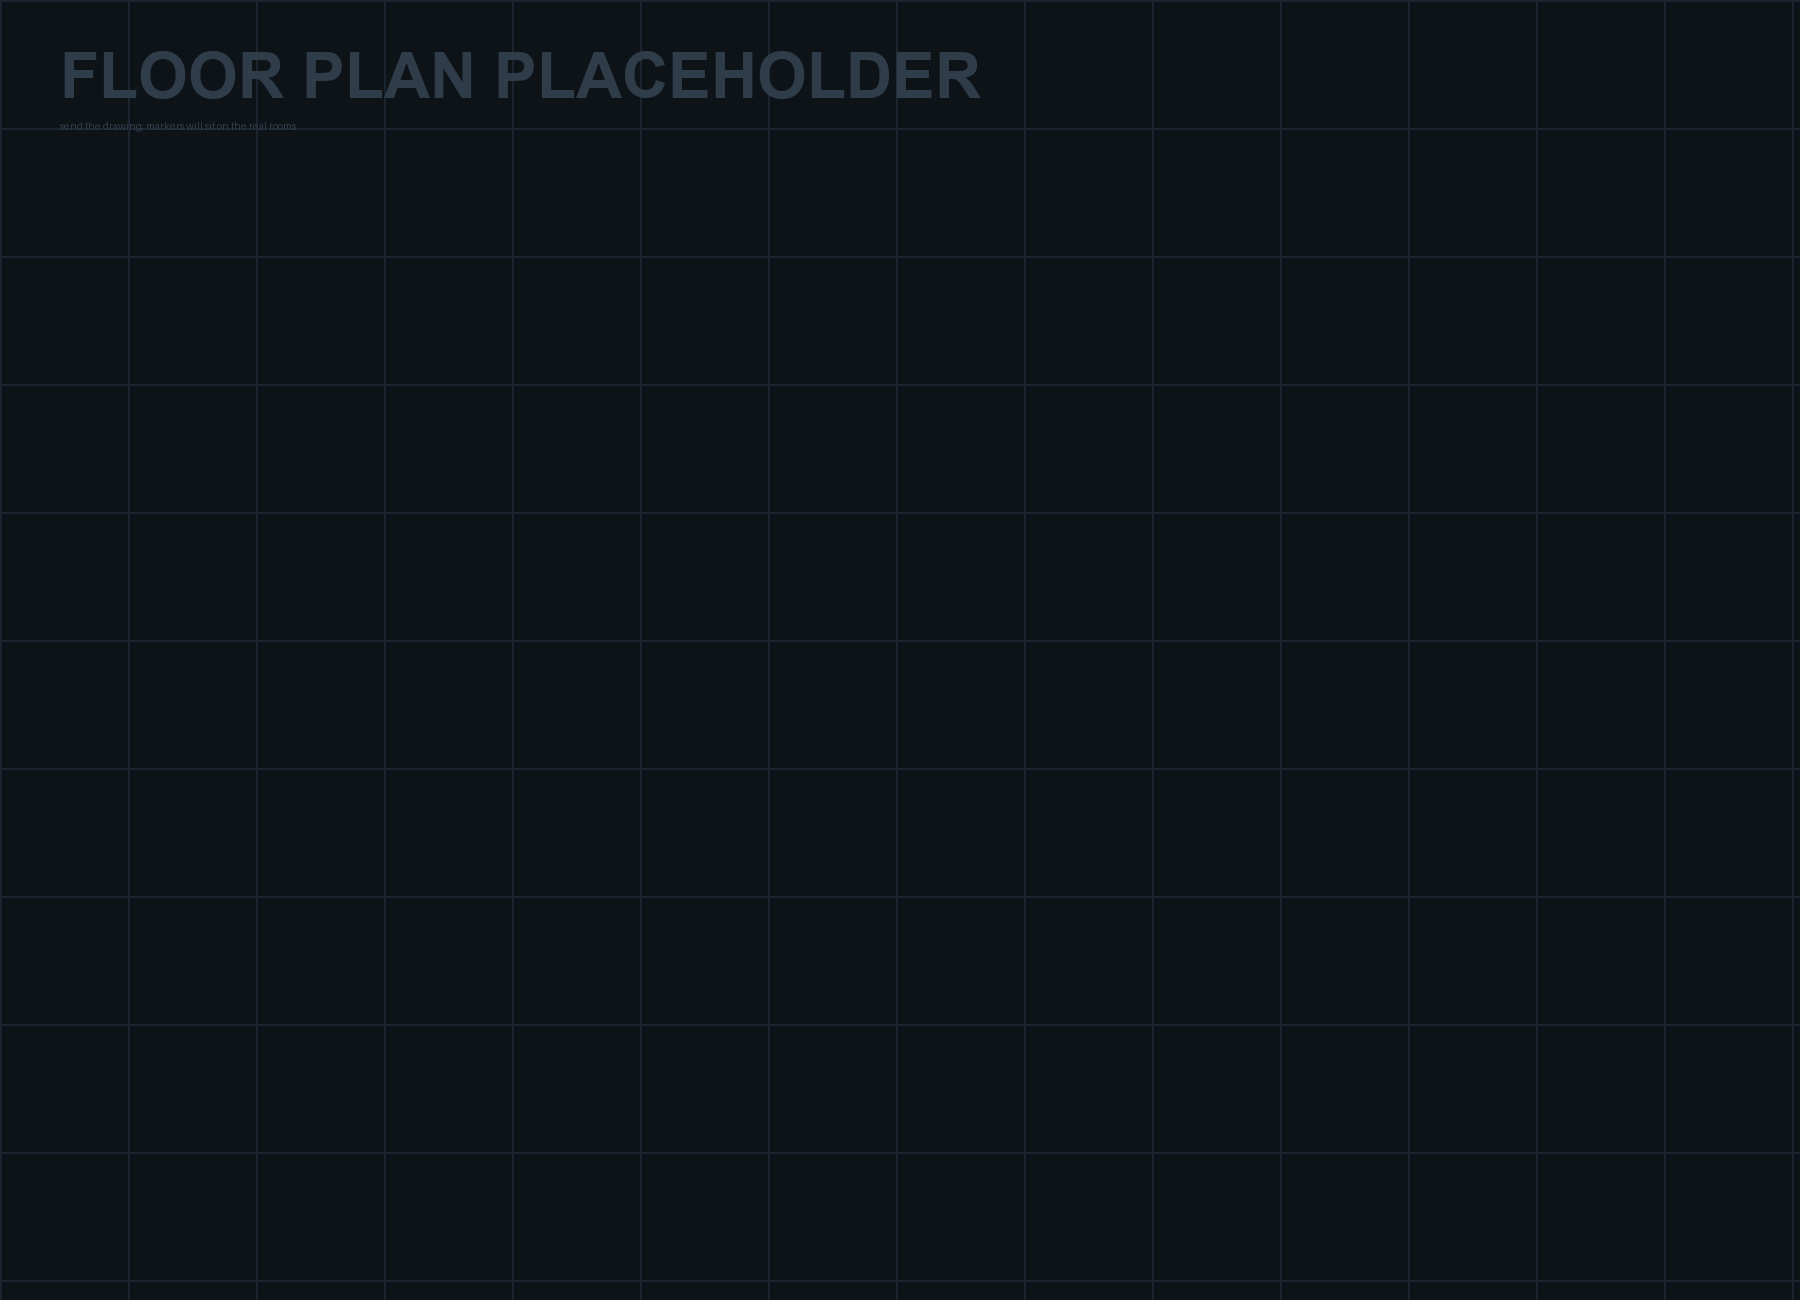
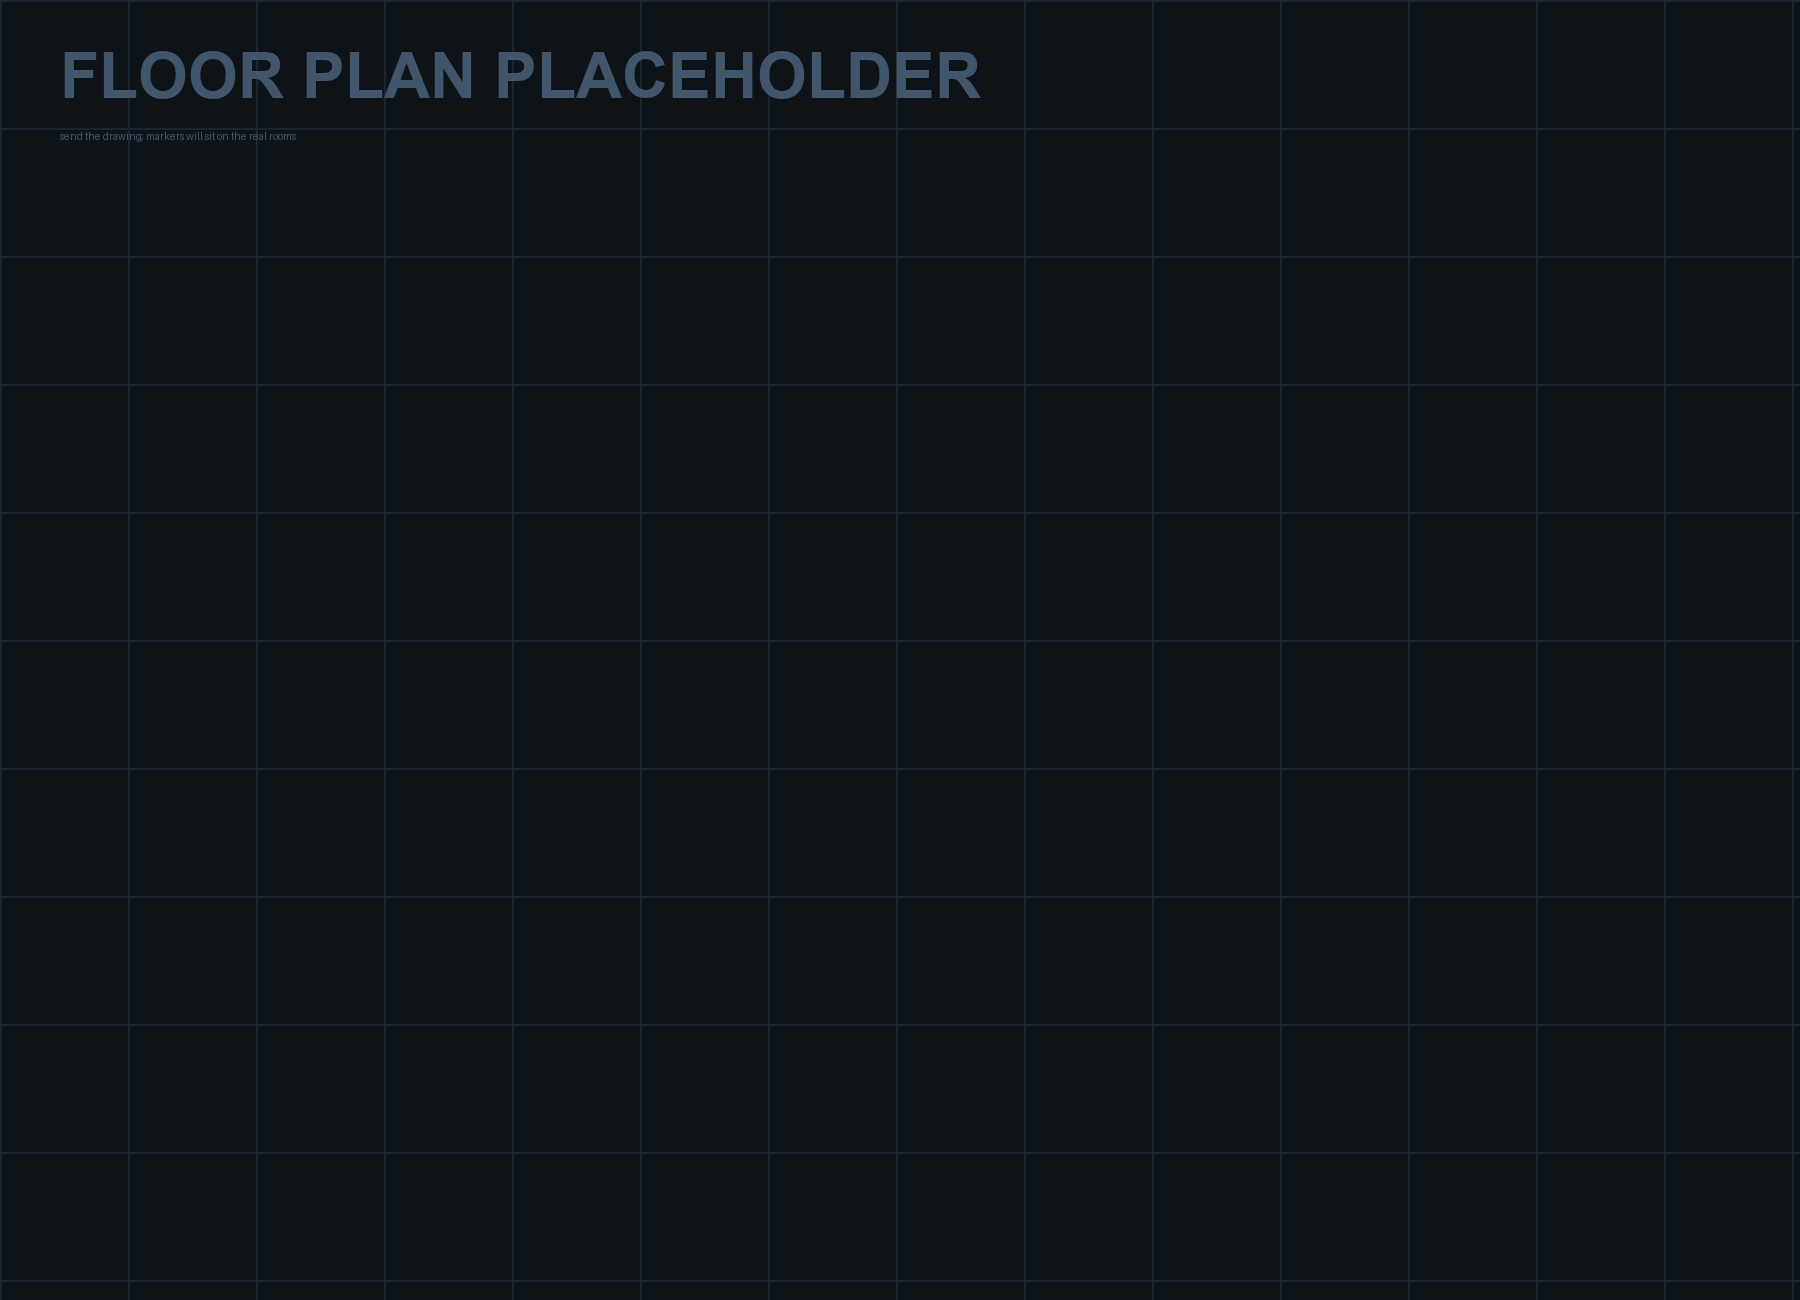
Fix plan fit zoom floor, marker label scaling

Changed region(s): [[0.0311, 0.0308, 0.56, 0.1231]]

diff --git a/index.html b/index.html
@@ -92,6 +92,9 @@
       display:flex;flex-direction:column;align-items:center;background:#121a20f2;border:1px solid #2b3742;
       color:#cfd8e3;border-radius:10px;padding:3px 7px;cursor:pointer;font-variant-numeric:tabular-nums;line-height:1.1}
   .mk .mkl{font-size:10px;color:#8b96a5;letter-spacing:.04em}
+  .stage.small .mk{padding:1px 4px;border-radius:7px}
+  .stage.small .mk .mkl{display:none}
+  .stage.small .mk .mkc{font-size:12px}
   .mk .mkc{font-size:15px;font-weight:800;color:var(--accent)}
   .mk.sel{border-color:var(--accent);box-shadow:0 0 0 2px #3ddc9744;background:#12352a}
   .mk.dim{opacity:.2}
@@ -493,8 +496,9 @@ function applyView(){
   el.stage.style.setProperty('--s', view.s);
   /* shrink with the map when zoomed out, hold size when zoomed in */
   el.stage.style.setProperty('--inv', String(Math.min(1, 1 / view.s)));
+  el.stage.classList.toggle('small', view.s < 0.55);
 }
-function clampS(s){ return Math.min(8, Math.max(0.25, s)); }
+function clampS(s){ return Math.min(8, Math.max(0.05, s)); }
 function zoomBy(f){
   const rect = el.wrap.getBoundingClientRect();
   const cx = rect.width / 2, cy = rect.height / 2;
@@ -584,6 +588,18 @@ el.wrap.addEventListener('touchmove', function(e){
   }
 }, {passive: false});
 el.wrap.addEventListener('touchend', function(){ pinch = null; });
+
+if('ResizeObserver' in window){
+  new ResizeObserver(function(){
+    if(el.planPanel.classList.contains('show')) fitPlan();
+  }).observe(el.wrap);
+}
+window.addEventListener('resize', function(){
+  if(el.planPanel.classList.contains('show')) fitPlan();
+});
+window.addEventListener('orientationchange', function(){
+  setTimeout(function(){ if(el.planPanel.classList.contains('show')) fitPlan(); }, 250);
+});
 
 document.getElementById('zin').onclick = function(){ zoomBy(1.25); };
 document.getElementById('zout').onclick = function(){ zoomBy(0.8); };

diff --git a/sw.js b/sw.js
@@ -1,4 +1,4 @@
-const V = 'cd-v5';
+const V = 'cd-v7';
 const ASSETS = ['./', './index.html', './manifest.webmanifest', './icon-192.png', './icon-512.png', './plan.png'];
 
 self.addEventListener('install', e => {
